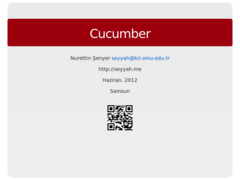
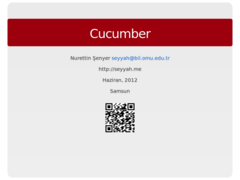
.

Changed region(s): [[0.4375, 0.5556, 0.5833, 0.75]]

diff --git a/p/cucumber-senaryo-hello/index.html b/p/cucumber-senaryo-hello/index.html
@@ -1602,7 +1602,7 @@ div.slide {
 <p>http://seyyah.me</p>
 <p>Haziran, 2012</p>
 <p>Samsun</p>
-<p class="qr"><img src="http://chart.apis.google.com/chart?chs=150x150&cht=qr&chl=http://seyyah.me/p/cucumber&chf=bg,s,00000000&choe=UTF-8" alt="QR Code" /></p></section>
+<p class="qr"><img src="http://chart.apis.google.com/chart?chs=150x150&cht=qr&chl=http://seyyah.me/p/cucumber-senaryo-hello&chf=bg,s,00000000&choe=UTF-8" alt="QR Code" /></p></section>
             
           </div>
           <div class="presenter_notes">

diff --git a/p/cucumber-ebook/index.html b/p/cucumber-ebook/index.html
@@ -1602,7 +1602,7 @@ div.slide {
 <p>http://seyyah.me</p>
 <p>Haziran, 2012</p>
 <p>Samsun</p>
-<p class="qr"><img src="http://chart.apis.google.com/chart?chs=150x150&cht=qr&chl=http://seyyah.me/p/cucumber&chf=bg,s,00000000&choe=UTF-8" alt="QR Code" /></p></section>
+<p class="qr"><img src="http://chart.apis.google.com/chart?chs=150x150&cht=qr&chl=http://seyyah.me/p/cucumber-ebook&chf=bg,s,00000000&choe=UTF-8" alt="QR Code" /></p></section>
             
           </div>
           <div class="presenter_notes">

diff --git a/p/cucumber-hello/index.html b/p/cucumber-hello/index.html
@@ -1602,7 +1602,7 @@ div.slide {
 <p>http://seyyah.me</p>
 <p>Haziran, 2012</p>
 <p>Samsun</p>
-<p class="qr"><img src="http://chart.apis.google.com/chart?chs=150x150&cht=qr&chl=http://seyyah.me/p/cucumber&chf=bg,s,00000000&choe=UTF-8" alt="QR Code" /></p></section>
+<p class="qr"><img src="http://chart.apis.google.com/chart?chs=150x150&cht=qr&chl=http://seyyah.me/p/cucumber-hello&chf=bg,s,00000000&choe=UTF-8" alt="QR Code" /></p></section>
             
           </div>
           <div class="presenter_notes">

diff --git a/p/cucumber-senaryo-hello/index.md b/p/cucumber-senaryo-hello/index.md
@@ -10,7 +10,7 @@ Haziran, 2012
 
 Samsun
 
-.qr: 150|http://seyyah.me/p/cucumber
+.qr: 150|http://seyyah.me/p/cucumber-senaryo-hello
 
 ---
 

diff --git a/p/cucumber-ebook/index.md b/p/cucumber-ebook/index.md
@@ -10,7 +10,7 @@ Haziran, 2012
 
 Samsun
 
-.qr: 150|http://seyyah.me/p/cucumber
+.qr: 150|http://seyyah.me/p/cucumber-ebook
 
 ---
 

diff --git a/p/cucumber-hello/index.md b/p/cucumber-hello/index.md
@@ -10,7 +10,7 @@ Haziran, 2012
 
 Samsun
 
-.qr: 150|http://seyyah.me/p/cucumber
+.qr: 150|http://seyyah.me/p/cucumber-hello
 
 ---
 
